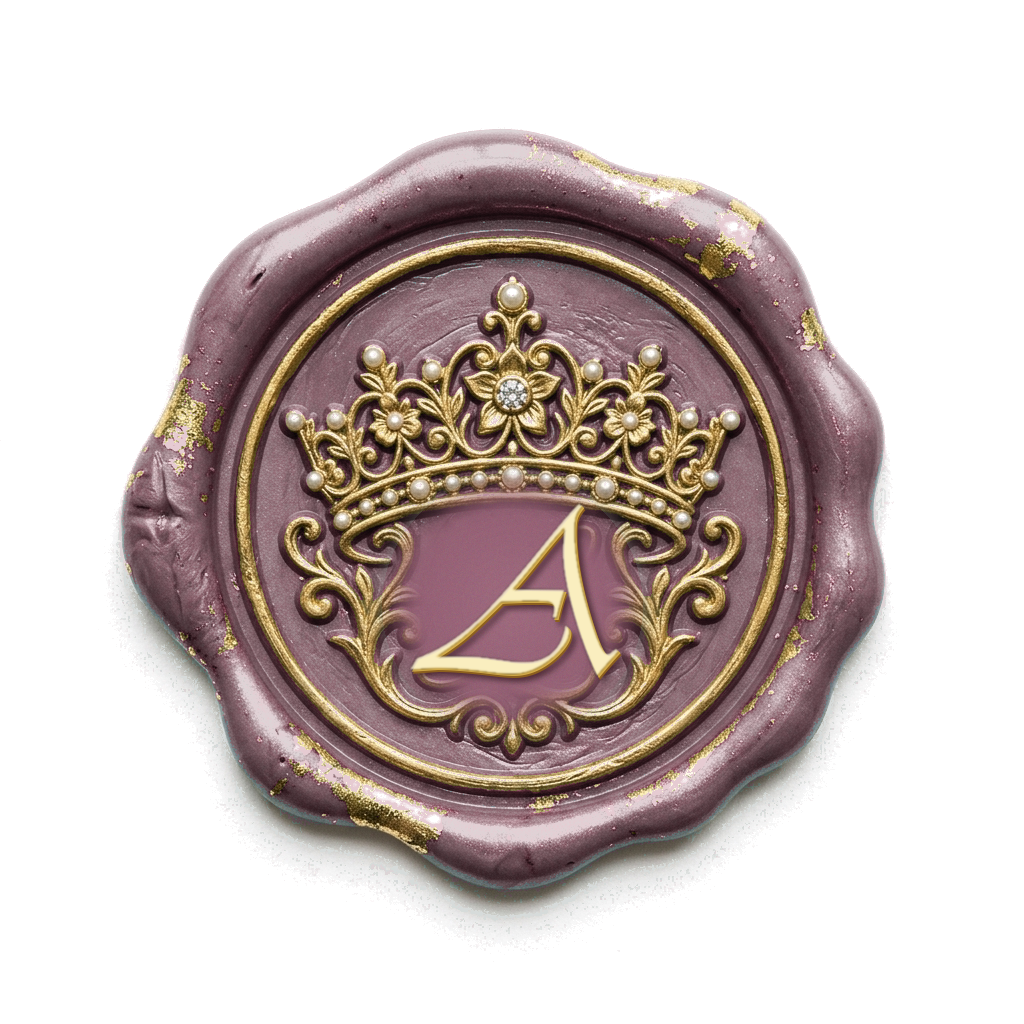
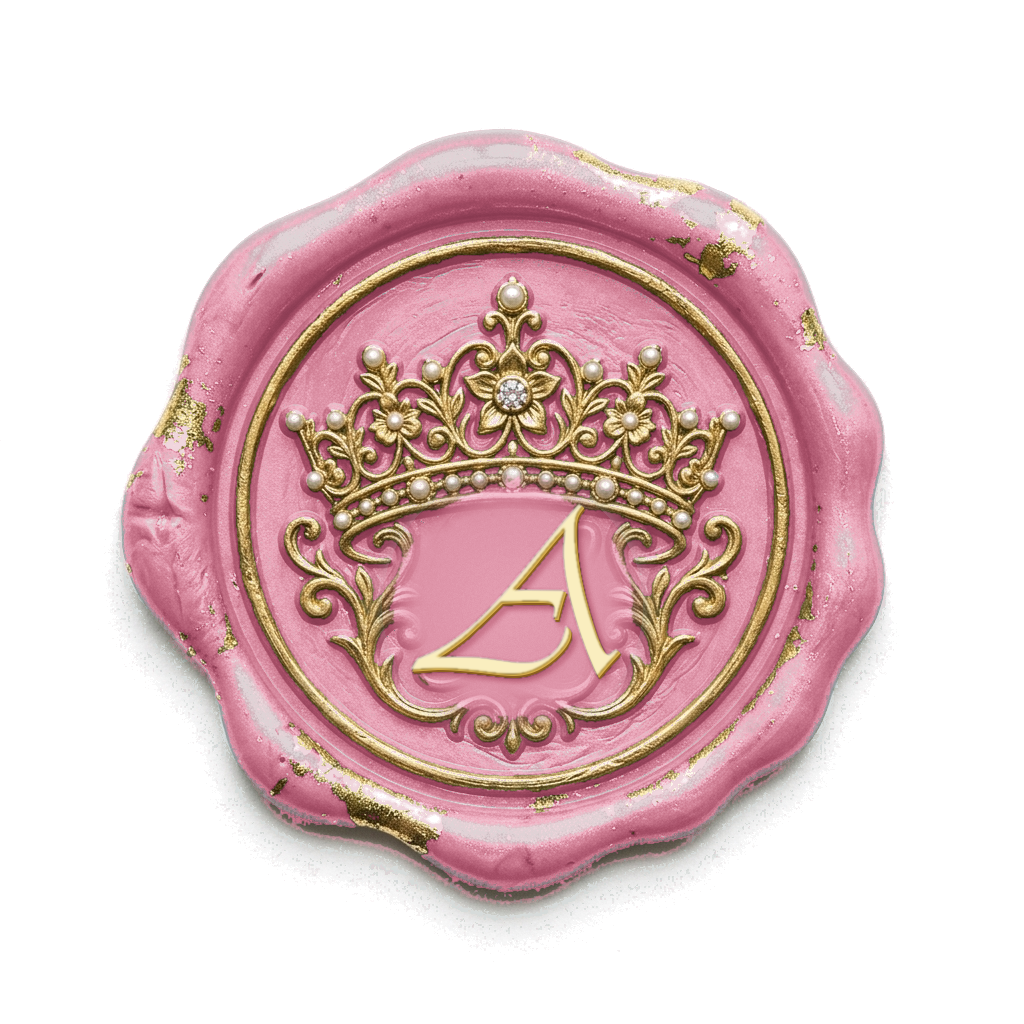
style(abrianamia): recolor wax seal from mauve/purple to blush pink to match theme

Changed region(s): [[0.0938, 0.125, 0.875, 0.9062]]

diff --git a/abrianamia/index.html b/abrianamia/index.html
@@ -47,7 +47,7 @@
 
   <!-- Preload Critical Above-The-Fold Entry Backdrop & Assets for Instant Display -->
   <link rel="preload" as="image" href="photos/flatlay-backdrop.jpg?v=1" fetchpriority="high" />
-  <link rel="preload" as="image" href="photos/wax-seal.png?v=1" />
+  <link rel="preload" as="image" href="photos/wax-seal.png?v=2" />
 
   <link rel="stylesheet" href="style.css?v=1.0.0" />
 </head>
@@ -178,7 +178,7 @@
           </svg>
 
           <button type="button" class="wax-seal-btn has-img" aria-label="Open Invitation">
-            <img class="wax-seal-img" src="photos/wax-seal.png?v=1" alt="Monogram A Wax Seal" aria-hidden="true" />
+            <img class="wax-seal-img" src="photos/wax-seal.png?v=2" alt="Monogram A Wax Seal" aria-hidden="true" />
           </button>
         </div>
 
